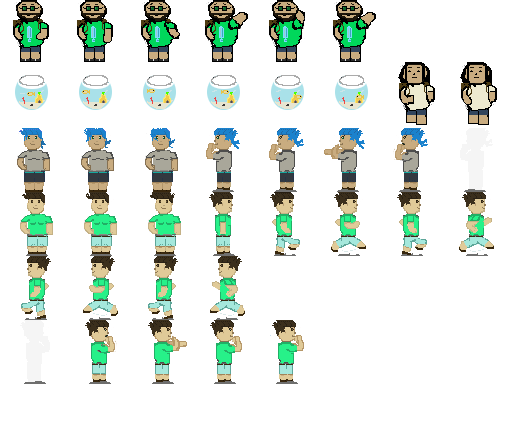
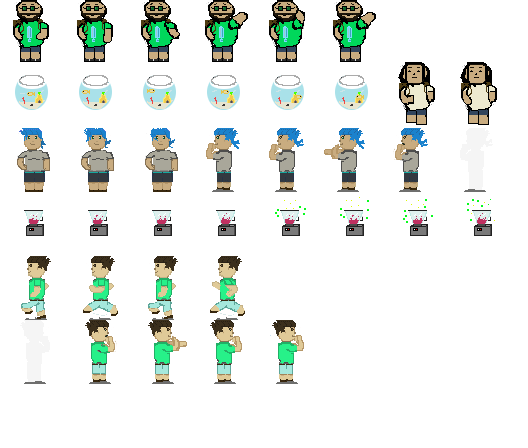
some bug fixes + working on a mini game

diff --git a/landingPage/js/main.js b/landingPage/js/main.js
@@ -148,11 +148,11 @@ loadImage('../assets/character2.png')
     
     var tutorialBroSprites = new SpriteSheet(image, 64, 64);
     tutorialBroSprites.define("default", 0,0);
-    tutorialBroSprites.define("wave1", 1, 0);
-    tutorialBroSprites.define("wave2", 2, 0);
-    tutorialBroSprites.define("wave3", 3, 0);
-    tutorialBroSprites.define("wave4", 4, 0);
-    tutorialBroSprites.define("wave5", 5, 0);
+    tutorialBroSprites.define("activeDefault", 1, 0, 6);
+    tutorialBroSprites.define("active2", 2, 0, 6);
+    tutorialBroSprites.define("active3", 3, 0, 6);
+    tutorialBroSprites.define("active4", 4, 0, 6);
+    tutorialBroSprites.define("active5", 5, 0, 6);
     tutorialBro = new GameObject(tutorialBroSprites, 5, 250);
     tutorialBro.scene = 0
     tutorialBro.sprites = tutorialBroSprites;
@@ -162,8 +162,10 @@ loadImage('../assets/character2.png')
 
     var blueHairBroSprites = new SpriteSheet(image, 64, 64);
     blueHairBroSprites.define("default", 0,2);
-    blueHairBroSprites.define("idle1", 1, 2);
-    blueHairBroSprites.define("idle2", 2, 2);
+    blueHairBroSprites.define("idle1", 1,2);
+    blueHairBroSprites.define("idle2", 2,2);
+    blueHairBroSprites.define("activeDefault", 1, 2, 6);
+    blueHairBroSprites.define("active2", 2, 2, 6);
     blueHairBroSprites.define('battleIdle1', 3 ,2, 3)
     blueHairBroSprites.define('battleIdle2', 4 ,2, 3)
     blueHairBroSprites.define('battleAttack1', 5 ,2, 4)
@@ -194,6 +196,29 @@ loadImage('../assets/character2.png')
     fishBowl.scene = 1
     gameObjects.push(fishBowl)
 
+    var blenderSprites = new SpriteSheet(image, 64, 64)
+    blenderSprites.define("default", 0, 3);
+    blenderSprites.define("idle1", 1, 3);
+    blenderSprites.define("idle2", 2, 3);
+    blenderSprites.define("idle3", 3, 3);
+    blenderSprites.define("activeDefault", 4, 3, 6);
+    blenderSprites.define("active1", 5, 3, 6);
+    blenderSprites.define("active2", 6, 3, 6);
+    blenderSprites.define("active3", 7, 3, 6);
+    var blender = new GameObject(blenderSprites, 1, 310);
+    blender.sprites = blenderSprites
+    blender.active = true
+    blender.name = "Blendy"
+    var transXY = translateCoordinates(false, -0.575, -.3, gameCanvas)
+    blender.posX = transXY.transX
+    blender.posY = transXY.transY
+    blender.normX = -.575
+    blender.normY = -.3
+    blender.scene = 1
+    blender.mouseActive = true
+    gameObjects.push(blender)
+    interactableNPCs.push(blender)
+
     
     gameObjects.push(tutorialBro);
     gameObjects.push(blueHairBro);
@@ -212,7 +237,7 @@ loadImage('../assets/character2.png')
     blueHairBro.normX = .3
     blueHairBro.normY = 0
     engine = new Engine(dbc, gameCanvas, player, gameObjects, interactableNPCs, dialogBox);
-    controller = new Controller(gameCanvas, engine, player, msgBox, sendBtn)
+    controller = new Controller(gameCanvas, engine, dbc, player, msgBox, sendBtn, interactableNPCs)
 
     
 
@@ -343,6 +368,10 @@ function update(time){
             else if(gameObject.fighting && gameObject.hurting){
                 next = gameObject.battleHurtFrameNames.next().value
             }
+            else if(gameObject.interactable || gameObject.mouseAnimate){
+                debugger;
+                next = gameObject.activeFrameNames.next().value
+            }
             else{
                 next = gameObject.frameNames.next().value
             }
@@ -373,6 +402,10 @@ function update(time){
                     gameObject.battleHurtFrameNames = gameObject.spriteSheet.battleHurtTiles.keys()
                         next = 'battleHurt1'
                 }
+                else if(gameObject.interactable || gameObject.mouseAnimate){
+                    gameObject.activeFrameNames = gameObject.spriteSheet.activeTiles.keys()
+                        next = 'activeDefault'
+                }
                 else{
                     gameObject.frameNames = gameObject.spriteSheet.tiles.keys()
                     next = 'default'
@@ -394,18 +427,16 @@ function update(time){
             var transXY = dbc.translateCoordinates(true, gameObject.posX, gameObject.posY +gameScreen.top, gameCanvas)
             
             interactableNPCs.forEach(NPC => {
-                var diffX = Math.abs(NPC.normX - transXY.transX)
-                var diffY = Math.abs(NPC.normY - transXY.transY)
-                if(diffX < .15 && diffY < .31){
-                    //NPC.isMoving = true
-                    NPC.interactable = true
-                }else{
-                    NPC.isMoving = false
-                    NPC.frameNames = NPC.spriteSheet.tiles.keys()
-                    NPC.next = 'default'
-                    NPC.nextFrame = NPC.next
-                    NPC.interactable = false
+                if(NPC.scene == gameObject.scene){
+                    var diffX = Math.abs(NPC.normX - transXY.transX)
+                    var diffY = Math.abs(NPC.normY - transXY.transY)
+                    if(diffX < .15 && diffY < .31){
+                        NPC.interactable = true
+                    }else{
+                        NPC.interactable = false
+                    }
                 }
+                
             })
             
         }

diff --git a/landingPage/js/controller.js b/landingPage/js/controller.js
@@ -1,13 +1,15 @@
 export default
 class Controller{
 
-	constructor(canvas, engine, player, msgBox, sendBtn){
+	constructor(canvas, engine, dbc, player, msgBox, sendBtn, interactableNPCs){
 		this.canvas = canvas
 		this.engine = engine
+		this.dbc = dbc
 		this.msgBox = msgBox
 		this.sendBtn = sendBtn
 		this.GameObjInteraction = null
 		this.interactionStep = 0
+		this.interactableNPCs = interactableNPCs
 
 		canvas.addEventListener("mousedown", e => { 
 
@@ -67,12 +69,31 @@ class Controller{
 			}else{
 				engine.enteringCafe = 0
 			}
-		  })
+			
+
+			interactableNPCs.forEach(NPC => {
+                if(NPC.scene == player.scene && NPC.mouseActive == true){
+					var gameScreen = canvas.getBoundingClientRect(); 
+					var transXY = dbc.translateCoordinates(true, player.posX, player.posY +gameScreen.top, canvas)
+                    var diffX = Math.abs(normalized_x - NPC.normX)
+                    var diffY = Math.abs(normalized_y - NPC.normY)
+                    if(diffX < .15 && diffY < .31){
+                        NPC.mouseAnimate = true
+                    }else{
+						NPC.mouseAnimate = false
+						/*var diffX = Math.abs(NPC.normX - transXY.transX)
+						var diffY = Math.abs(NPC.normY - transXY.transY)
+						if(diffX > .15 || diffY > .31){
+						  NPC.MoveInteractable = false
+						}*/
+                    }
+				}
+			})
+                
+            })
 
 		  sendBtn.addEventListener("click", e => {
 			  engine.saveMessage(msgBox.value)
-			  
-
 		  })
 
 	}

diff --git a/landingPage/js/SpriteSheet.js b/landingPage/js/SpriteSheet.js
@@ -9,6 +9,7 @@ export default class SpriteSheet {
         this.battleIdleTiles = new Map();
         this.battleAttackTiles = new Map();
         this.battleHurtTiles = new Map();
+        this.activeTiles = new Map();
     }
 
     define(name, x, y, z = 0) {
@@ -45,6 +46,9 @@ export default class SpriteSheet {
             if(z == 5){
                 this.battleHurtTiles.set(name, buffer)
             }
+            if(z == 6){
+                this.activeTiles.set(name, buffer)
+            }
     }
 
     draw(name, context, x, y, msg, gameObj) {
@@ -64,6 +68,9 @@ export default class SpriteSheet {
         }
         if(name.includes("battleHurt")){
             buffer = this.battleHurtTiles.get(name);
+        }
+        if(name.includes("active")){
+            buffer = this.activeTiles.get(name);
         }
         
         context.drawImage(buffer, x-this.width/2, y -this.height/2);

diff --git a/landingPage/js/GameObject.js b/landingPage/js/GameObject.js
@@ -10,6 +10,7 @@ export default class GameObject{
         this.battleIdleFrameNames = spriteSheet.battleIdleTiles.keys()
         this.battleAttackFrameNames = spriteSheet.battleAttackTiles.keys()
         this.battleHurtFrameNames = spriteSheet.battleHurtTiles.keys()
+        this.activeFrameNames = spriteSheet.activeTiles.keys()
         this.currentStep = 0
         this.animationSteps = animationSteps
         this.speed = speed
@@ -57,6 +58,8 @@ export default class GameObject{
         this.attacking = false
         this.hurting = false
         this.BlockClick = false
+        this.mouseActive = false
+        this.mouseAnimate = false
     }
 
     getNextSprite(){

diff --git a/landingPage/js/engine.js b/landingPage/js/engine.js
@@ -123,6 +123,21 @@ class Engine{
 				}
 				break;
 
+				case "Blendy":
+					this.dialogBox.active = true
+					this.dialogBox.name = NPC.name
+					switch(interactionStep){
+						case 1 :
+							this.dialogBox.dialogMsg = ["Its me Blendy the Blender!"]
+							break;
+					} 
+
+					if(interactionStep > 1){
+						this.player.interacting = false
+						this.dialogBox.active = false
+					}
+					break;
+
 				case "Lil Drewski":
 					this.dialogBox.active = true
 					this.dialogBox.name = NPC.name
